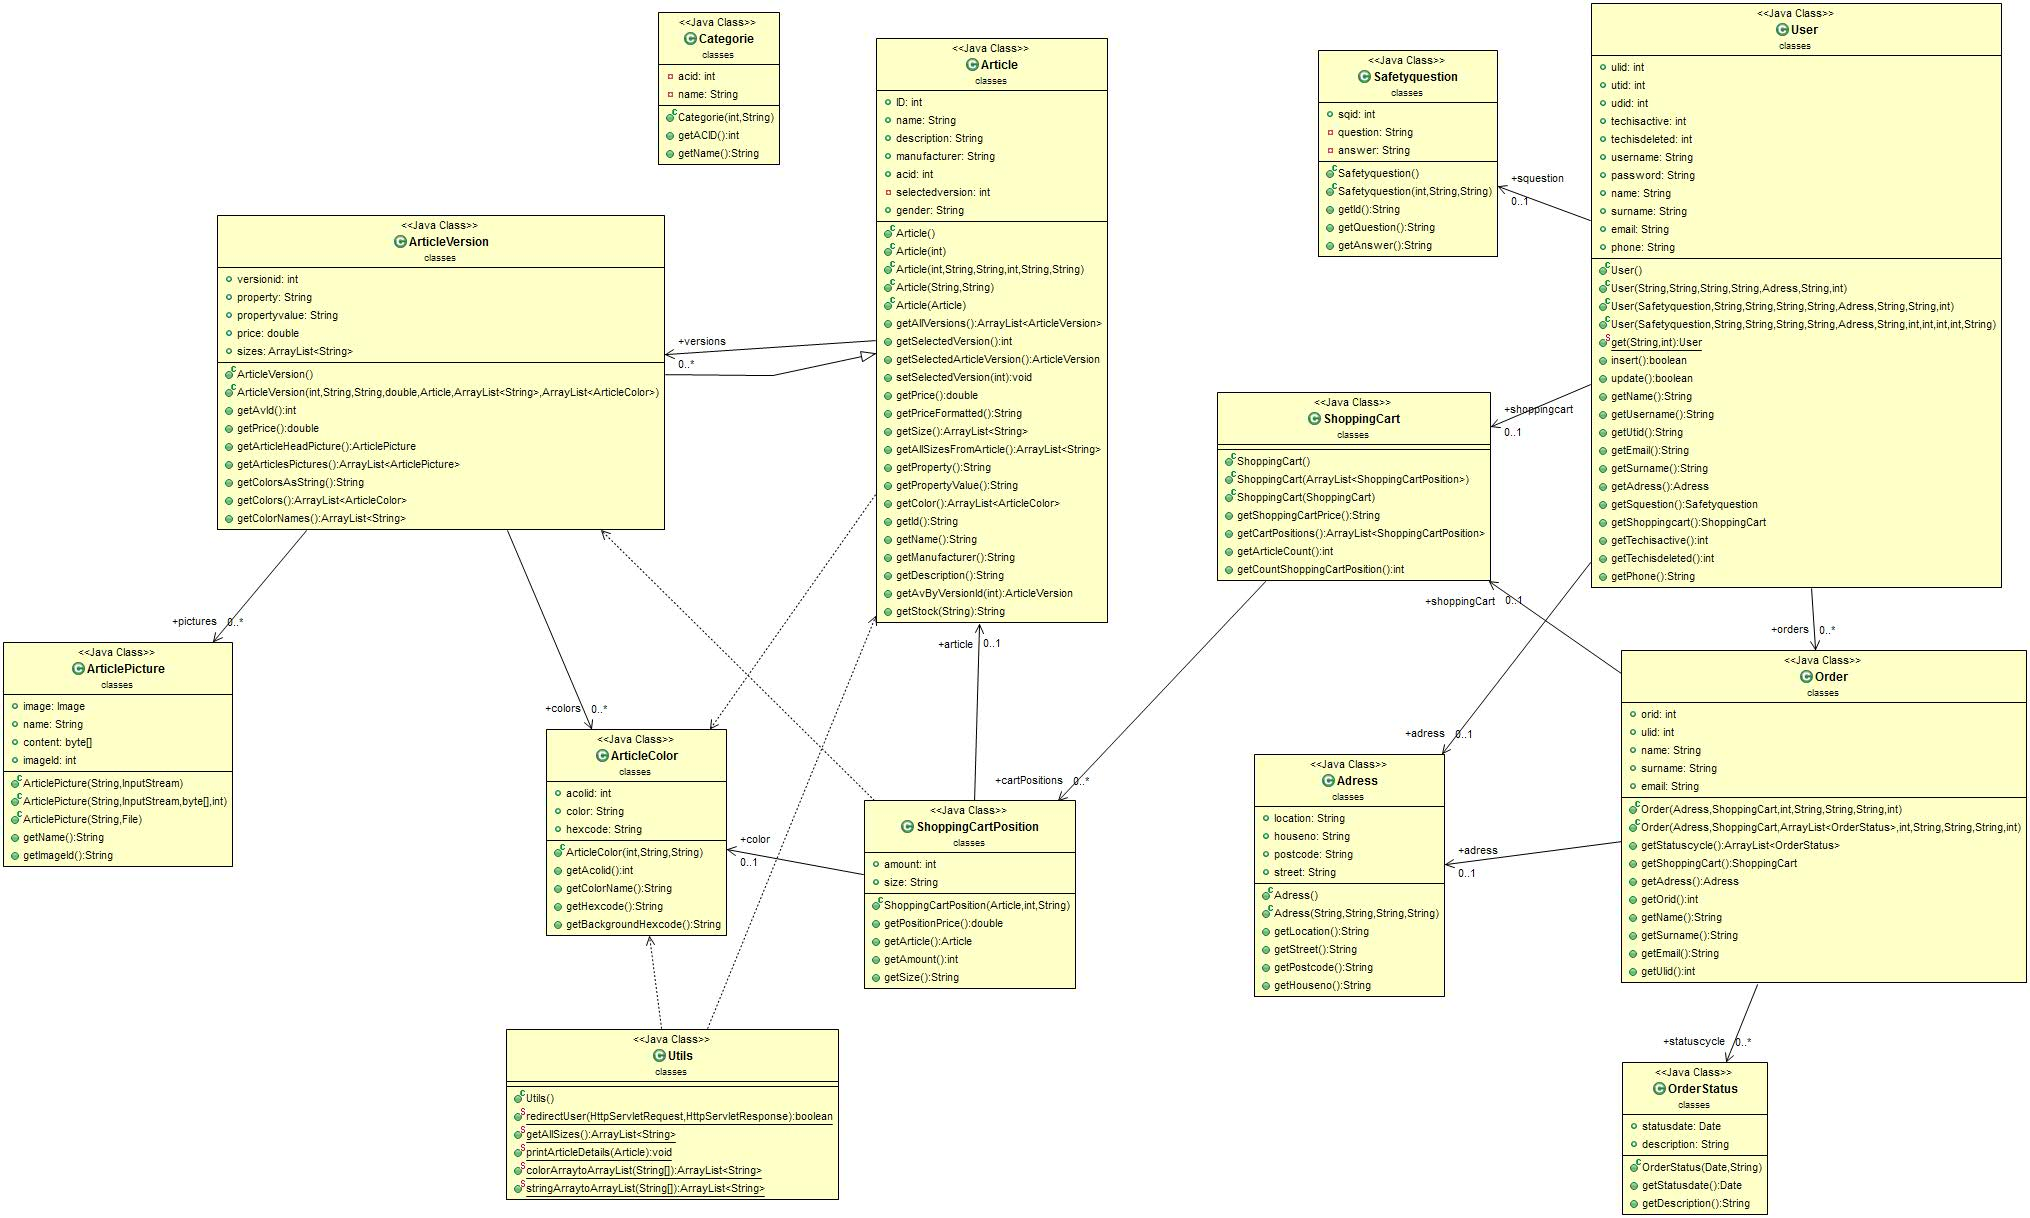
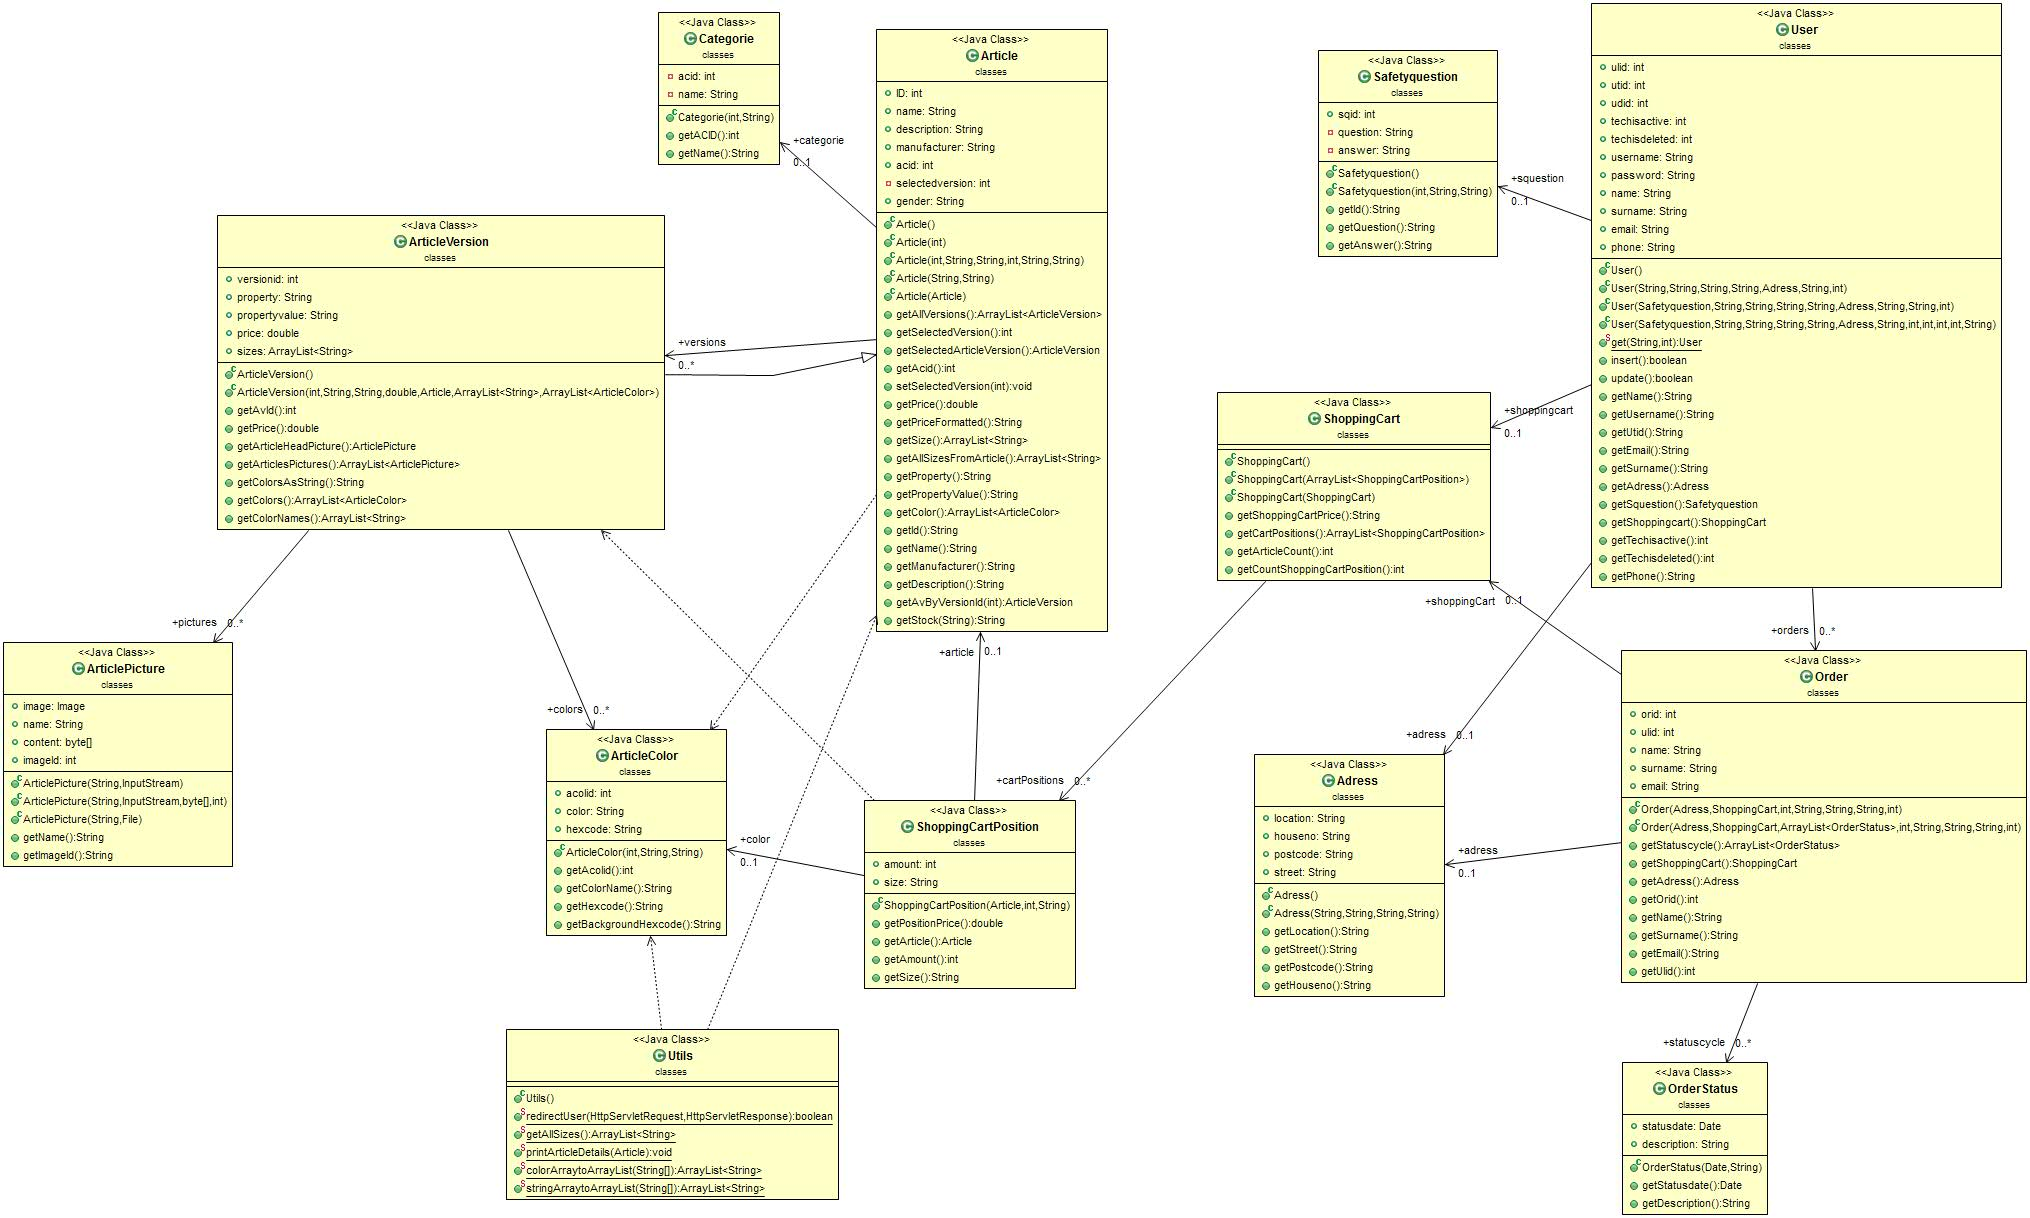
Changed class diagram

diff --git a/Snowventure/src/classes/Article.java b/Snowventure/src/classes/Article.java
@@ -20,6 +20,7 @@ public class Article {
 	public String description;
 	public String manufacturer;
 	public int acid;
+	public Categorie categorie;
 	public ArrayList<ArticleVersion> versions;
 	private int selectedversion;
 	public String gender;
